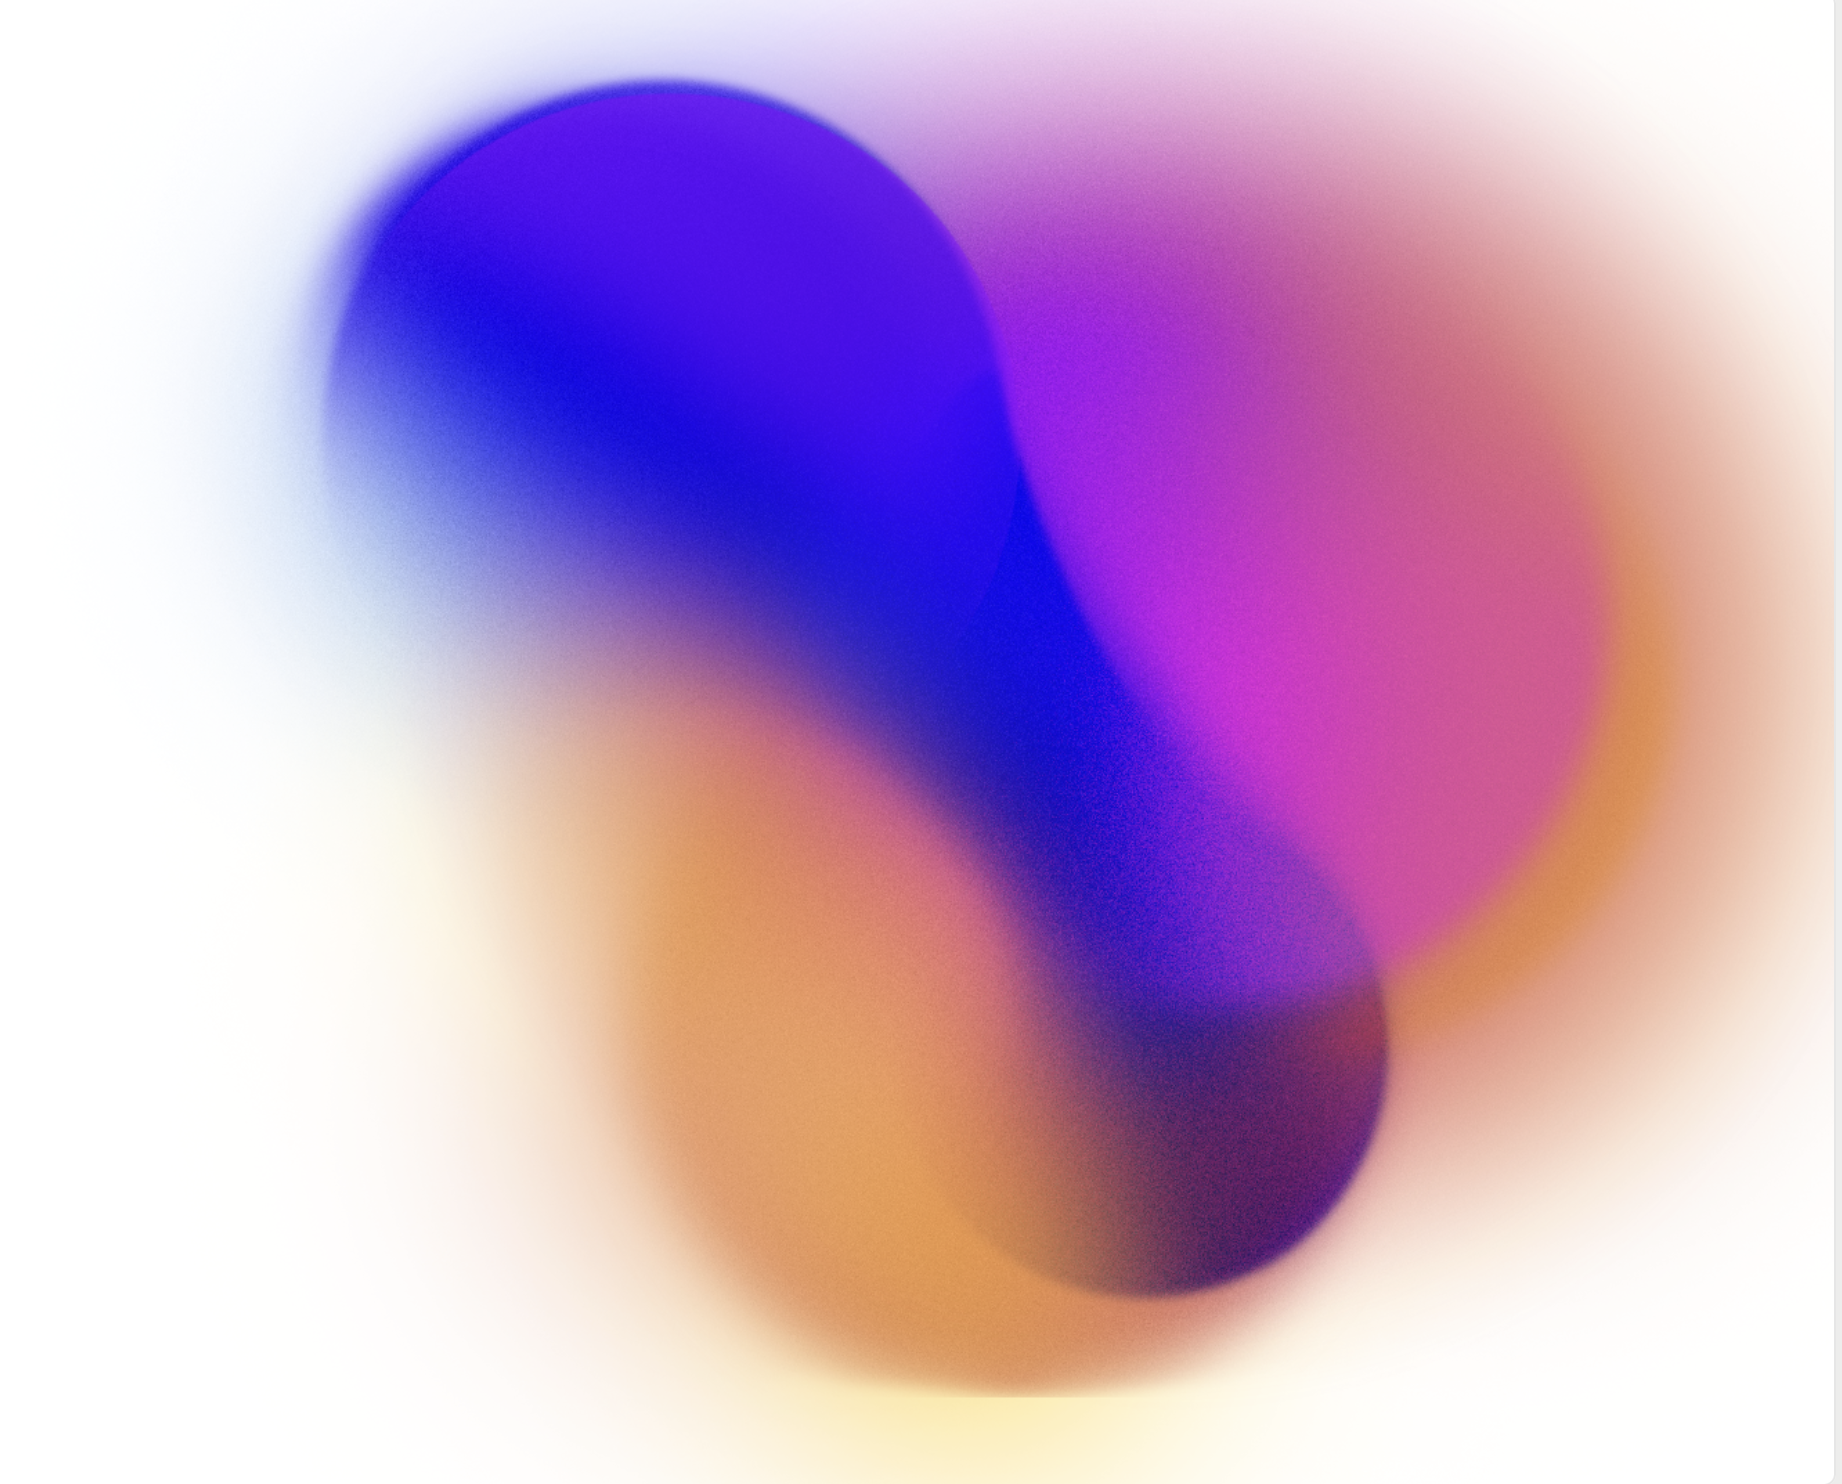
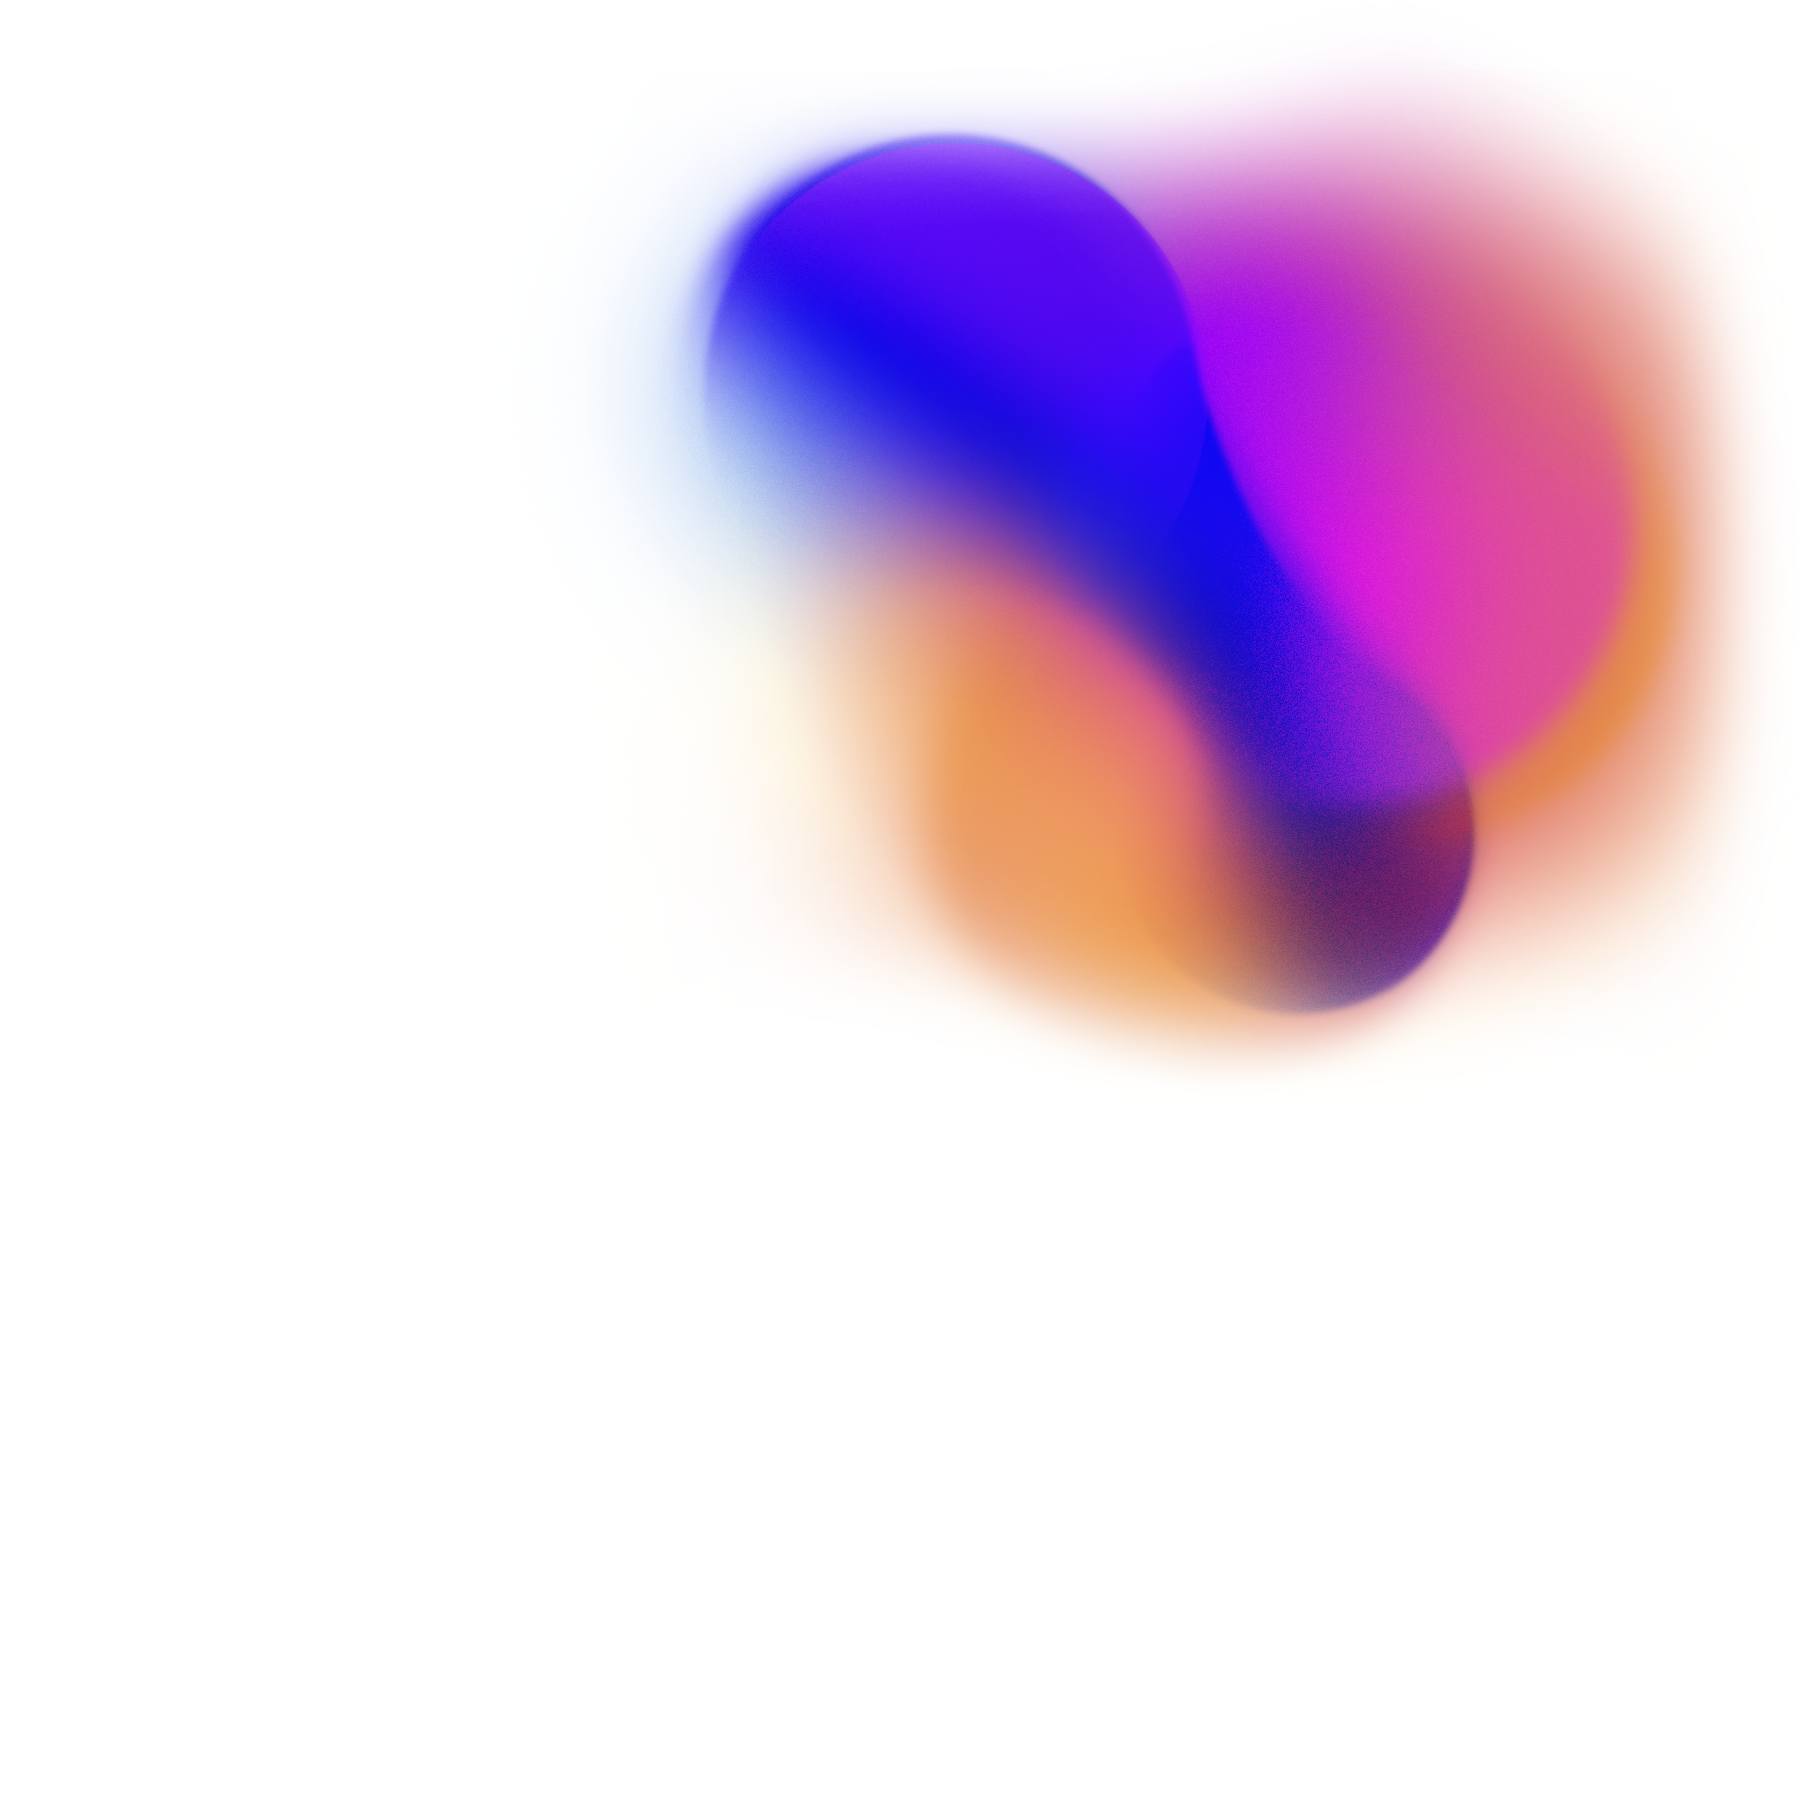
trying different bg

diff --git a/src/index.html b/src/index.html
@@ -15,53 +15,67 @@
   </head>
 
   <!-- Nav starts here -->
-  <nav class="">
-    
-  <ul class="flex last:justify-center ">
+
+  </div> 
+    <nav>
+  <ul class="flex justify-center fixed h-20  w-full z-0 ">
     <!-- <li class="mr-3">
       <a class="inline-block  text-black p-8 m-5" href="#"> <img src="./img/logo_full2.png" alt="logo" class="w-16"> </a>
-    </li> -->
+    </li>  -->
     <li class="mr-3">
-      <a class="inline-block   text-black p-4 md:p-8 md:m-5  transition duration-100 delay-75 hover:delay-0 hover:border hover:border-black" href="projects.html">Projects</a>
+      <a class="inline-block   text-black p-4 md:p-8 md:m-5  transition duration-100 delay-75 hover:delay-0 hover:border hover:border-white hover:text-white" href="projects.html">Projects</a>
     </li>
     <li class="mr-3">
-      <a class="inline-block   text-black p-4 md:p-8 md:m-5 transition duration-100 delay-75 hover:delay-0 hover:border hover:border-black" href="about.html">About</a>
+      <a class="inline-block   text-black p-4 md:p-8 md:m-5 transition duration-100 delay-75 hover:delay-0 hover:border hover:border-white hover:text-white" href="about.html">About</a>
     </li>
     <li class="mr-3">
-      <a class="inline-block   text-black p-4 md:p-8 md:m-5 transition duration-100 delay-75 hover:delay-0 hover:border hover:border-black" href="contact.html">Contact</a>
+      <a class="inline-block   text-black p-4 md:p-8 md:m-5 transition duration-100 delay-75 hover:delay-0 hover:border hover:border-white hover:text-white" href="contact.html">Contact</a>
     </li>
   
   </ul>
-</nav>
+</nav> 
 
 <!-- Nav ends here -->
+
+<!--Landing page body content start here -->
   
   <main>
     <body>
-        <div class="herobackground block -mt-36 min-h-[150vh] w-full bg-cover z-50"> 
-      <div class="text-box">
-        <h1 class="mt-64 ml-96 pt-36 text-9xl font-black">Portfolio</h1>
-      </div>
-     
-      <div class="absolute ml-96 grid w-96 grid-cols-3 h-96">
+        <div class="herobackground block min-h-[150vh] w-auto z-50 bg-cover bg-no-repeat "> 
         
-        <div class="h-96 w-96 -rotate-90 border-2 border-black font-black">
-          <a href="#" class="links">Typography</a>
+      <!-- <div class="text-box">
+        <h1 class="md:mt-0 md:ml-96 md:pt-36 md:text-9xl font-black">Portfolio</h1>
+       
+      </div>  -->
+
+      <!-- <h1 class="text-9xl font-black">Portfolio</h1> -->
+     
+      <h1 class=" md:ml-96  md:text-9xl font-black fixed md:mt-36 mt-52 text-7xl ml-14 md:h-16  overflow-hidden  h-9">Portfolio</h1>
+
+         
+
+      <div class=" fixed md:ml-96 ml-14 mt-80 grid w-96 md:grid-cols-3 md:grid-rows-3  overflow-hidden md:-mt-11  z-50 transition duration-150 ease-in-out  h-full ">
+        
+        <div class=" md:text-5xl text-4xl md:h-96 md:p-0 pt-10 pb-10 w-96 md:-rotate-90  border border-black font-black  md:mt-72  hover:text-gray-600 hover:-hue-rotate- transition duration-150">
+          <a href="typography.html" class="links">Typography</a>
         </div>
-        <div class="h-96 w-96 -rotate-90 border-2 border-black font-black">
+        <div class=" md:text-5xl text-4xl md:h-96 md:p-0 pt-10 pb-10 w-96 md:-rotate-90  border border-black font-black  md:mt-72  hover:text-gray-600 hover:-hue-rotate- transition duration-150">
           <a href="#" class="links"> Graphics</a>
         </div>
-        <div class="h-96 w-96 -rotate-90 border-2 border-black font-black">
-          <a href="#" class="links">Web Design</a>
+        <div class=" md:text-5xl text-4xl md:h-96 md:p-0 pb-10 w-96 pt-10 md:-rotate-90  border border-black font-black md:mt-72  hover:text-gray-600 hover:-hue-rotate- transition duration-150">
+          <a href="#" class="links"> Web Design</a>
         </div>
-      </div>
+       
+      </div> 
+ 
       
     </body>
+    <!--Landing page body content ends here -->
 
     <!--Footer Starts here-->
 
    <footer class="w-full  h-64 grid md:grid-cols-2  z-0 mt-9  ">
-     <div class="box1  flex justify-evenly  md:border md:border-y-black ">
+     <div class="box1  flex justify-evenly  md:border md:border-y-black bg-white ">
        <div class="line absolute md:invisible"></div>
        <div class=" w-56">
        <h3 class="text-2xl font-black mt-7">Julie Ringås</h3>
@@ -72,7 +86,7 @@
 
 
      </div>
-     <div class="box2 md:border-x-black md:border md:border-t-black">
+     <div class="box2 md:border-x-black md:border md:border-t-black bg-white">
        <div class="headingcontainer h-48">
         <div class="eMailContainer grid grid-cols-4 h-16">
           

diff --git a/src/tailwind.css b/src/tailwind.css
@@ -27,25 +27,24 @@
     font-size: 0.8rem;
   }
 }
-
+/* 
 .text-box {
   width: 100%;
   overflow: hidden;
-  height: 60vh;
-}
+  height: 50vh;
+} */
 
 .links {
   font-family: "Silk Serif", black;
-  font-size: 3rem;
 }
 
 .line {
   border-top: 1px solid black;
-  width: 200vw;
+  width: 100vw;
 }
 
 @layer components {
   .herobackground {
-    background-image: url("img/bg.png");
+    background-image: url("./img/bg4.png");
   }
 }
